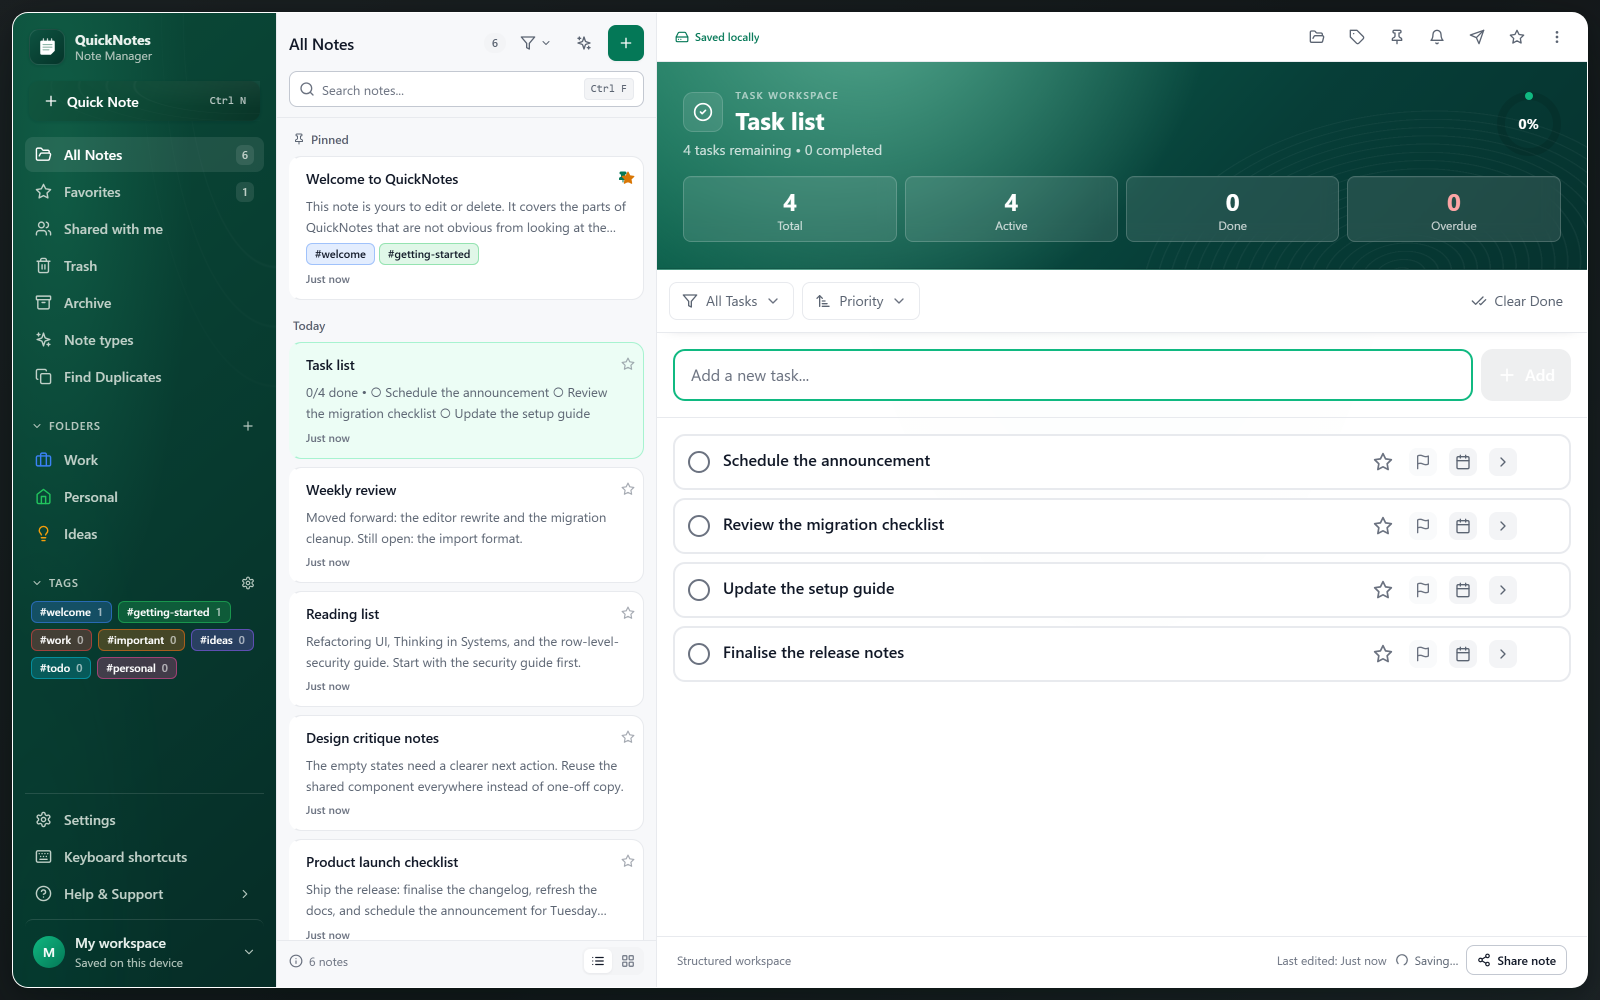
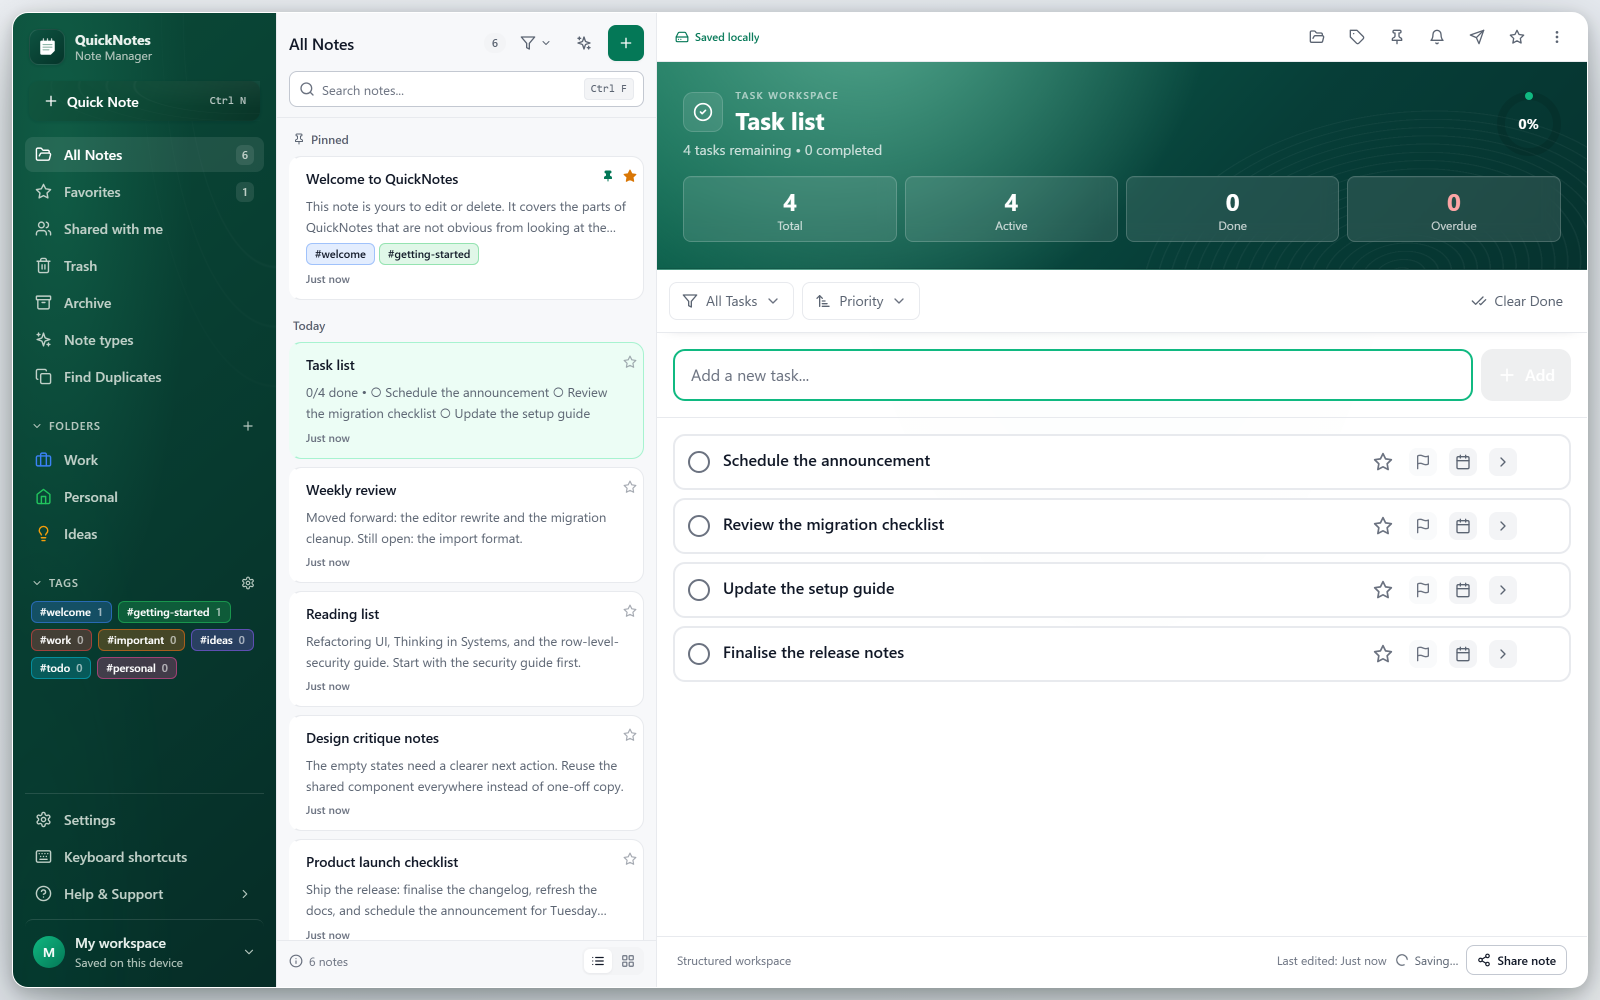
fix: separate the pin from the star, and put the app back on a light canvas
Note card:
- The pin indicator sat in the title row while the star button was absolutely
  positioned over the same corner, so a pinned note drew the two on top of
  each other. They now share one cluster and the title reserves that width,
  so a long title truncates before it reaches them

Canvas:
- The neutral canvas was applied to both themes, which turned a light
  business application into a dark one. It is now light in the light theme
  and deep neutral only in the dark theme, in the workspace and behind the
  sign-in card alike. Still not a second green: the rail and banner are
  saturated green, and a green canvas of any lightness merges with them

Docs:
- The dark-mode screenshot is replaced by the project board, which shows a
  populated kanban with milestones and team tabs rather than a duplicate of
  the workspace in another colour

Changed region(s): [[0.0, 0.0, 1.0, 1.0], [0.375, 0.155, 0.4062, 0.186]]

diff --git a/src/components/NoteCard.jsx b/src/components/NoteCard.jsx
@@ -74,22 +74,16 @@ const NoteCard = forwardRef(function NoteCard(
           isDragging ? 'opacity-50' : '',
         ].join(' ')}
       >
+        {/* The pin indicator and the star control share one corner, so the
+            title reserves that width rather than running underneath them. */}
         <div className="flex items-start gap-2">
           <h3
-            className={`min-w-0 flex-1 truncate font-semibold text-content ${
+            className={`min-w-0 flex-1 truncate pr-11 font-semibold text-content ${
  compactMode ? 'text-ui-md' : 'text-title-xs'
  }`}
           >
             {note.title || 'Untitled note'}
           </h3>
-          <span className="flex shrink-0 items-center gap-1 pt-0.5">
-            {note.pinned && (
-              <>
-                <Pin className="h-3 w-3 fill-current text-accent" aria-hidden="true" />
-                <span className="qn-sr-only">Pinned</span>
-              </>
-            )}
-          </span>
         </div>
 
         {notePreviewLines > 0 && (
@@ -133,24 +127,38 @@ const NoteCard = forwardRef(function NoteCard(
         </div>
       </button>
 
-      {/* Star toggle sits outside the card button: nesting interactive
-          elements is invalid HTML and breaks screen-reader navigation. */}
-      <button
-        type="button"
-        onClick={(e) => {
-          e.stopPropagation()
-          toggleStar(note.id)
-        }}
-        aria-label={
-          note.starred ? `Remove ${note.title} from favourites` : `Add ${note.title} to favourites`
-        }
-        aria-pressed={!!note.starred}
-        className={`qn-inline-target absolute right-4 top-3.5 flex h-6 w-6 items-center justify-center rounded-control transition-colors duration-fast hover:bg-surface-active ${
- note.starred ? 'text-warning' : 'text-content-subtle opacity-60 hover:opacity-100'
- }`}
+      {/* The star sits outside the card button: nesting interactive elements is
+          invalid HTML and breaks screen-reader navigation. The pin rides along
+          so the two never land on the same pixels. */}
+      <div
+        className={`absolute right-3.5 flex items-center gap-1 ${compactMode ? 'top-2' : 'top-3'}`}
       >
-        <Star className={`h-3.5 w-3.5 ${note.starred ? 'fill-current text-warning' : ''}`} aria-hidden="true" />
-      </button>
+        {note.pinned && (
+          <>
+            <Pin className="h-3 w-3 shrink-0 fill-current text-accent" aria-hidden="true" />
+            <span className="qn-sr-only">Pinned</span>
+          </>
+        )}
+        <button
+          type="button"
+          onClick={(e) => {
+            e.stopPropagation()
+            toggleStar(note.id)
+          }}
+          aria-label={
+            note.starred ? `Remove ${note.title} from favourites` : `Add ${note.title} to favourites`
+          }
+          aria-pressed={!!note.starred}
+          className={`qn-inline-target flex h-6 w-6 items-center justify-center rounded-control transition-colors duration-fast hover:bg-surface-active ${
+            note.starred ? 'text-warning' : 'text-content-subtle opacity-60 hover:opacity-100'
+          }`}
+        >
+          <Star
+            className={`h-3.5 w-3.5 ${note.starred ? 'fill-current text-warning' : ''}`}
+            aria-hidden="true"
+          />
+        </button>
+      </div>
     </li>
   )
 })

diff --git a/src/index.css b/src/index.css
@@ -642,11 +642,15 @@ input[type="datetime-local"]:not([class*="opacity-0"]):focus {
   animation: auth-form-in 0.4s ease-out;
 }
 
-/* The sign-in page uses the same neutral desk as the workspace frame, so the
-   green hero panel reads as a card on it rather than merging into a full-page
-   wash of the same colour. */
+/* The sign-in page uses the same canvas as the workspace, so the hero panel
+   reads as a card resting on it. Light in the light theme — this is a working
+   tool, not a night-mode product — and a deep neutral in the dark theme. */
 .qn-auth-page {
-  background: linear-gradient(135deg, #1b2022, #14181a 55%, #1e2427);
+  background: linear-gradient(135deg, #eef1f5, #e7ebf1 55%, #f2f4f7);
+}
+
+.dark .qn-auth-page {
+  background: linear-gradient(135deg, #12171c, #0d1116 55%, #151b21);
 }
 
 /* Sign-in hero and navigation rail share one material: an emerald-tinted deep
@@ -732,13 +736,17 @@ input[type="datetime-local"]:not([class*="opacity-0"]):focus {
 }
 
 @media (min-width: 1280px) and (min-height: 700px) {
-  /* The desk the workspace frame sits on.
-     Neutral graphite on purpose, not a darker green. The rail and the editor
-     banner are both saturated green, and a green desk of any lightness sits in
-     the same hue family, so the frame's edge disappears into it. Against a
-     neutral the green reads as the product's colour instead of as the room. */
+  /* The canvas the workspace frame rests on.
+     A quiet neutral rather than a second green: the rail and the editor banner
+     are both saturated green, so a green canvas of any lightness sits in the
+     same hue family and the frame's edge dissolves into it. The light theme
+     keeps a light canvas — the dark one belongs to the dark theme. */
   body {
-    background: linear-gradient(135deg, #1b2022, #14181a 55%, #1e2427);
+    background: linear-gradient(135deg, #eef1f5, #e7ebf1 55%, #f2f4f7);
+  }
+
+  .dark body {
+    background: linear-gradient(135deg, #12171c, #0d1116 55%, #151b21);
   }
 
   .qn-workspace-frame {

diff --git a/README.md b/README.md
@@ -920,10 +920,10 @@ If you'd like a preview of QuickNotes before trying it out, the screenshots belo
   </tr>
   <tr>
     <th>QuickNotes - Global Search</th>
-    <th>QuickNotes - Dark Mode</th>
+    <th>QuickNotes - Project Board</th>
   </tr>
   <tr>
     <td><a href="https://github.com/BerndHagen/QuickNotes-Simple-Note-Manager/raw/main/img/img_v2.0.2-quicknotes_search.png" target="_blank" rel="noopener noreferrer"><img src="https://github.com/BerndHagen/QuickNotes-Simple-Note-Manager/raw/main/img/img_v2.0.2-quicknotes_search.png" alt="QuickNotes Global Search" width="450"></a></td>
-    <td><a href="https://github.com/BerndHagen/QuickNotes-Simple-Note-Manager/raw/main/img/img_v2.0.2-quicknotes_darkmode.png" target="_blank" rel="noopener noreferrer"><img src="https://github.com/BerndHagen/QuickNotes-Simple-Note-Manager/raw/main/img/img_v2.0.2-quicknotes_darkmode.png" alt="QuickNotes Dark Mode" width="450"></a></td>
+    <td><a href="https://github.com/BerndHagen/QuickNotes-Simple-Note-Manager/raw/main/img/img_v2.0.2-quicknotes_board.png" target="_blank" rel="noopener noreferrer"><img src="https://github.com/BerndHagen/QuickNotes-Simple-Note-Manager/raw/main/img/img_v2.0.2-quicknotes_board.png" alt="QuickNotes Project Board" width="450"></a></td>
   </tr>
 </table>
